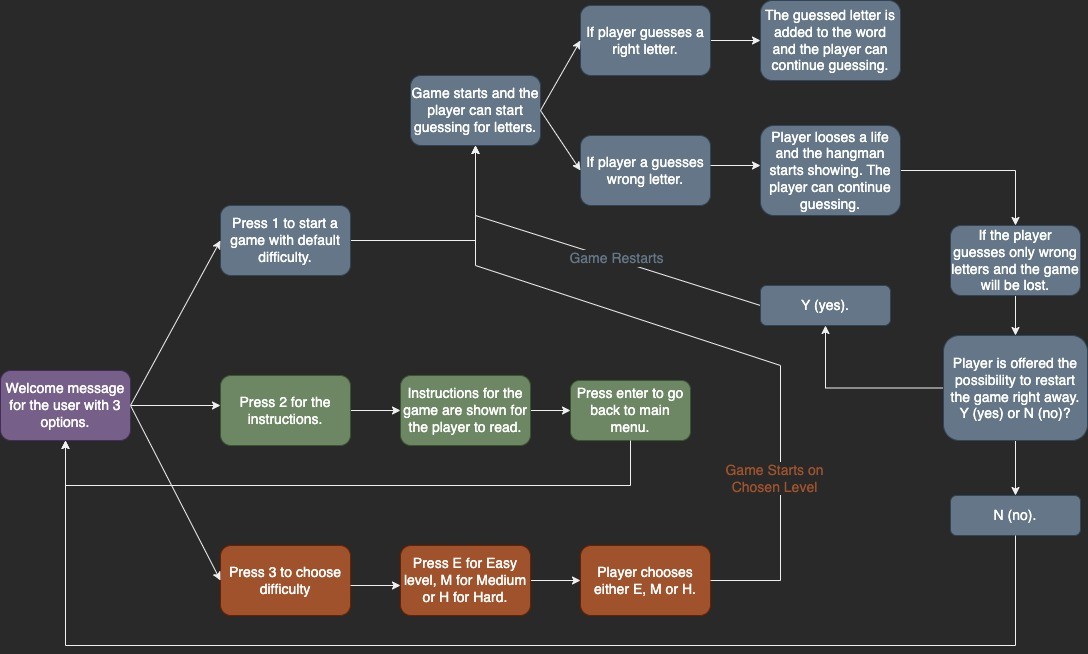
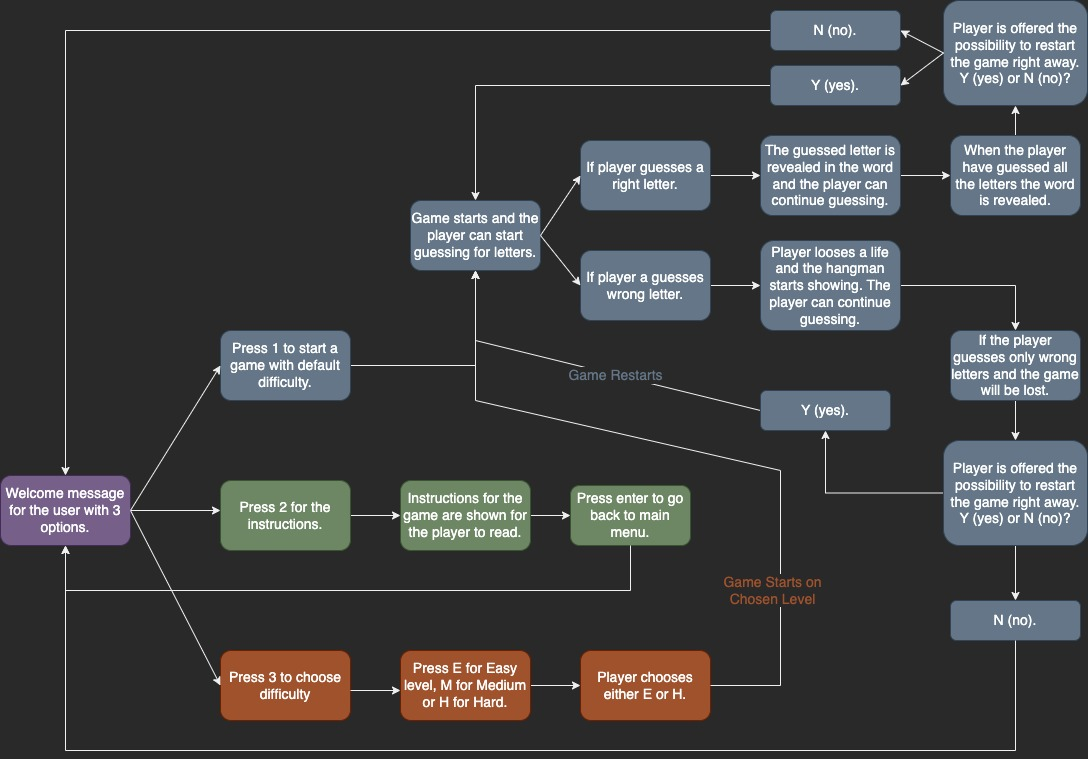
Added more contect to README, images of the game to add in Features

diff --git a/run.py b/run.py
@@ -245,7 +245,7 @@ def run_game(word, difficulty_lives):
                 if '_' not in word_to_guess:
                     game_over = True
         except ValueError as input_error:
-            print(f'{input_error}\n Please try again.\n')
+            print(f'{input_error}\nPlease try again.\n')
             continue
 
         print(display_hangman(lives))

diff --git a/README.md b/README.md
@@ -5,6 +5,51 @@ For every guess the player gets correct, a new letter will be revealed and event
 
 The game is available to be played on three different levels: Easy (9 lives), Medium (6 lives) or Hard (4 lives).
 
-Good luck & have fun! 
+Good luck & have fun!
+
+&nbsp;
+
+## Table of Contents
+---
+
+
+&nbsp;
+
+## The Plan
+---
+
+Before starting to build the game I made a plan of how I wanted it to work. To do this in a way that looked good and was easy to navigate I created a flowchart with the help of [diagrams.net](https://www.diagrams.net/).
+
+&nbsp;
 
 ![Flowchart](readme-assets/Hangman.jpg)
+
+## Features
+---
+### Start-up page
+
+![Start-up](readme-assets/Start-up%20Hangman.png)
+
+&nbsp;
+
+### Instructions
+
+![Instructions](readme-assets/Instructions%20Hangman.png)
+
+&nbsp;
+
+### Choose Level
+
+![Choose Level](readme-assets/Set%20difficulty%20Hangman.png)
+
+&nbsp;
+
+### Player Wins
+
+![Player Wins](readme-assets/Win%20Hangman.png)
+
+&nbsp;
+
+### Player Lose
+
+![Player Lose](readme-assets/Lose%20Hangman.png)
